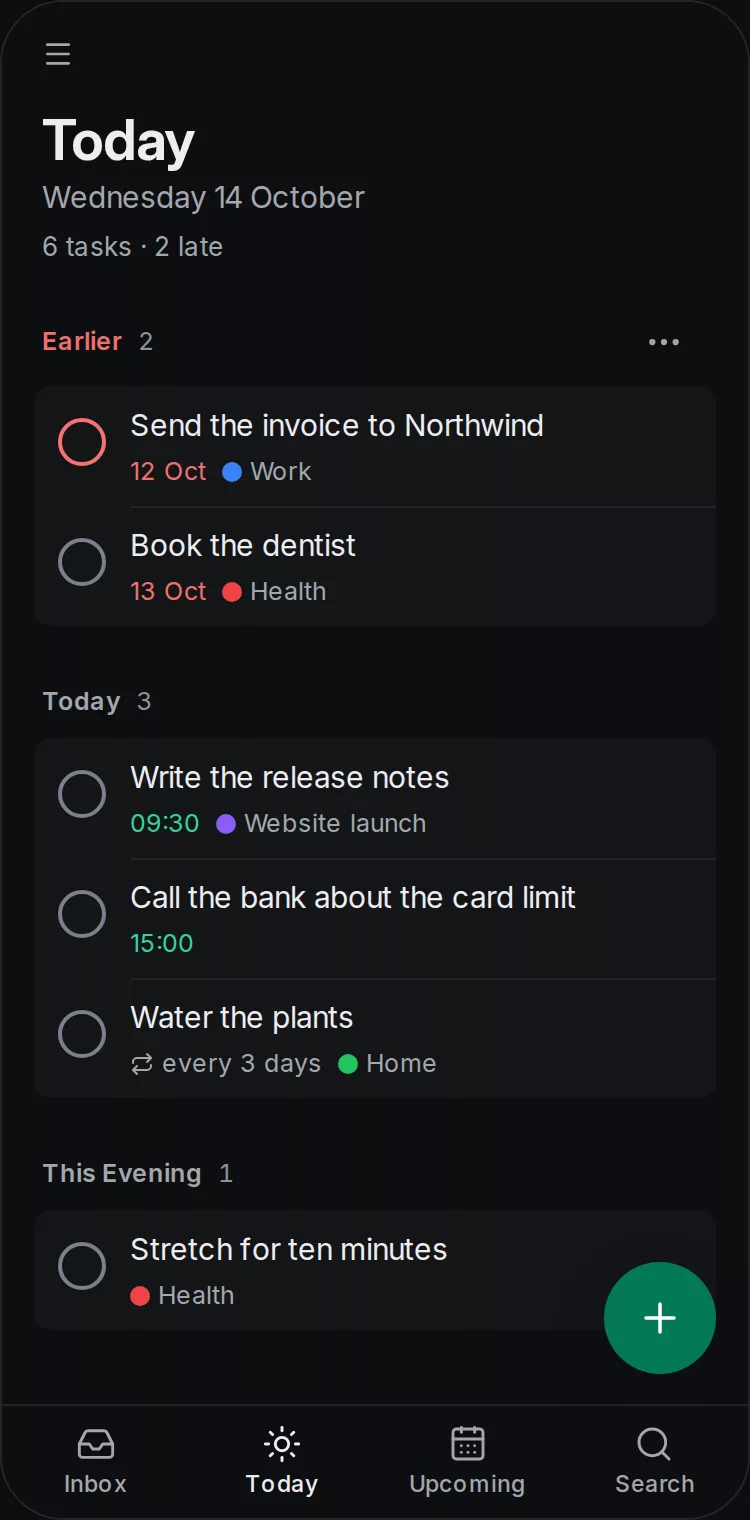
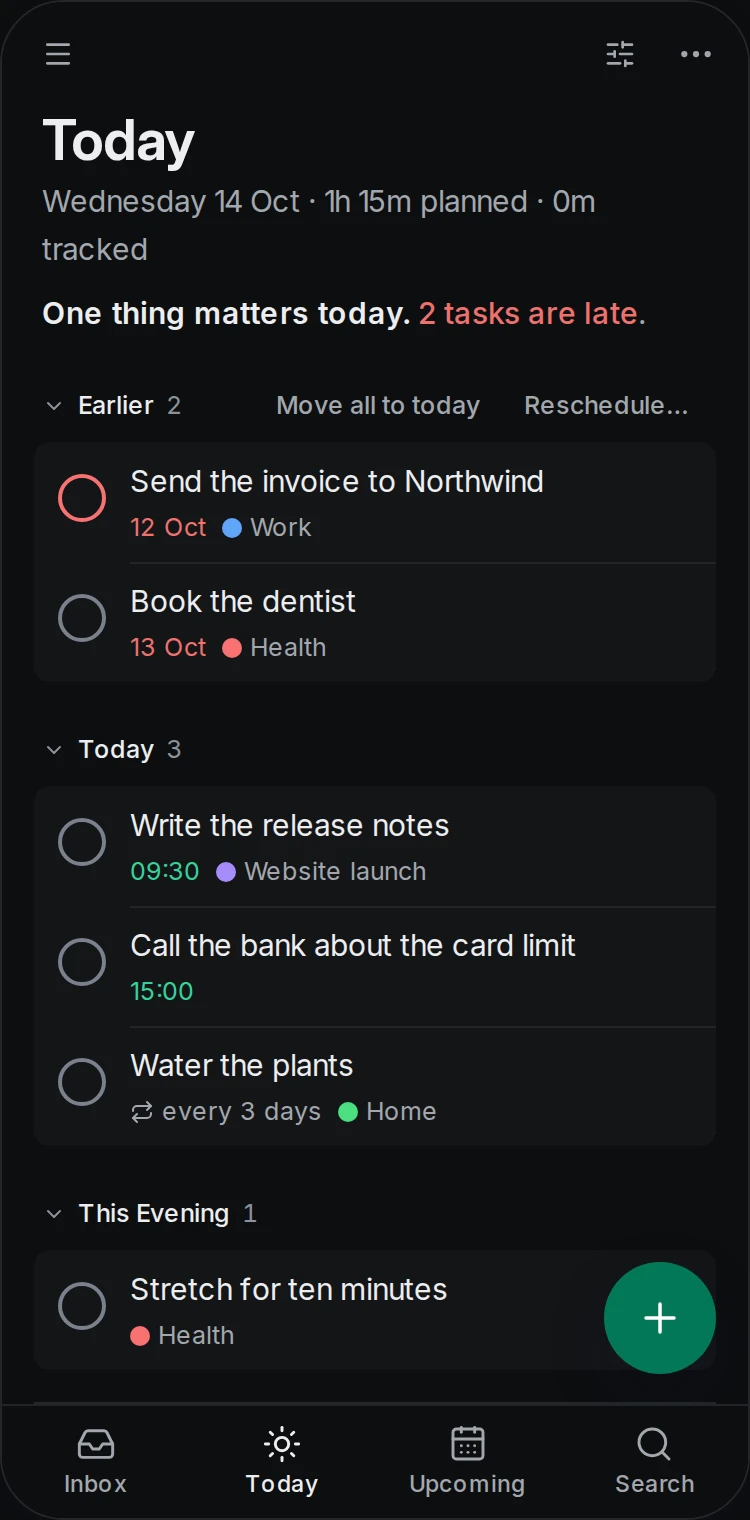
Phone lists: the guide, the changelog entry, the menu comparison test
The guide covers every list; its screenshot is the list screen. A test
compares the phone list's page menu with the present phone menu item by item
for five lists.

Claude-Session: https://claude.ai/code/session_0187cnkUznk8omJqBk45JtjP

Changed region(s): [[0.0613, 0.1237, 0.8893, 0.8967], [0.736, 0.1237, 0.7973, 0.1546]]

diff --git a/web/src/phone/phoneLists.test.tsx b/web/src/phone/phoneLists.test.tsx
@@ -241,3 +241,35 @@ describe('the row\'s menu in the phone list', () => {
     await r.unmount()
   })
 })
+
+describe('the page menu of the phone list', () => {
+  const items = () => [...document.querySelectorAll<HTMLElement>('[role="menuitem"], [role="menuitemcheckbox"], [role="menuitemradio"]')].map((el) => el.textContent?.trim() ?? '').filter(Boolean).sort()
+  /** Opens the last menu of a bar (the page's own menu) and returns its items; closes it again. */
+  async function menuOf(bar: () => Element | null | undefined): Promise<string[]> {
+    await waitFor(() => !!bar()?.querySelector('button[aria-haspopup]'), 'the page menu button')
+    const triggers = [...bar()!.querySelectorAll<HTMLElement>('button[aria-haspopup="menu"], button[aria-haspopup="true"]')]
+    await click(triggers.at(-1)!)
+    await waitFor(() => items().length > 0, 'the menu open')
+    const found = items()
+    document.dispatchEvent(new KeyboardEvent('keydown', { key: 'Escape', bubbles: true }))
+    document.activeElement?.dispatchEvent(new KeyboardEvent('keydown', { key: 'Escape', bubbles: true }))
+    await waitFor(() => items().length === 0, 'the menu closed')
+    return found
+  }
+
+  for (const [name, route] of ROUTES.filter(([n]) => ['the Inbox', 'Today', 'Upcoming', 'a label', 'a project'].includes(n))) {
+    it(`${name} offers every item its present phone menu offers`, async () => {
+      const s = await seed()
+      navigate(route(s))
+      const r = await render(<Shell user={user} onLogout={() => {}} />)
+      await waitFor(() => !!document.querySelector('[data-list-page]') && rowIds().length > 0, 'the present list')
+      const before = await menuOf(() => document.querySelector('[data-phone-bar]'))
+      setPhoneUiEnabled(true)
+      await waitFor(() => !!list() && rowIds().length > 0, 'the phone list')
+      const after = await menuOf(() => list()?.querySelector('[data-phone-header]'))
+      expect(before.length).toBeGreaterThan(0)
+      expect(after).toEqual(before)
+      await r.unmount()
+    })
+  }
+})

diff --git a/docs/phone-screens.md b/docs/phone-screens.md
@@ -1,6 +1,6 @@
 ---
 title: New phone screens
-summary: Try Today and the task page in a design made for a phone, on the phone you choose, and turn it off again.
+summary: Try the task lists and the task page in a design made for a phone, on the phone you choose, and turn it off again.
 audience: user
 section: Guides
 specs: []
@@ -9,39 +9,39 @@ order: 153
 ---
 # New phone screens
 
-<picture><source srcset="images/phone-screens-dark.webp" media="(prefers-color-scheme: dark)"><img src="images/phone-screens-light.webp" alt="Today on a phone in the new design: the title Today with the date, then two cards of tasks, Earlier with two overdue tasks and Today with three, each task with its circle, its title and one line with its time, repeat and project; the tab bar and the add button below."></picture>
+<picture><source srcset="images/phone-screens-dark.webp" media="(prefers-color-scheme: dark)"><img src="images/phone-screens-light.webp" alt="Today on a phone in the new design: the menu button, the display options and the menu in the bar, the title Today with the date and the briefing, then cards of tasks under Earlier, Today and This Evening, each task with its circle, its title and one line with its date or time, repeat and project; the tab bar and the add button at the bottom."></picture>
 
-OpenTodo on a phone has so far been the same screens as on a computer, rearranged to fit. **New phone screens** is a trial of screens designed for a phone from the start. It covers two of them, **Today** and the **task page**; every other screen is as before.
+OpenTodo on a phone has so far been the same screens as on a computer, rearranged to fit. **New phone screens** is a trial of screens designed for a phone from the start. It covers every **task list** (the Inbox, Today, Upcoming, Anytime, Someday, Assigned to me, Completed, a label, a location and a project as a list) and the **task page**; every other screen is as before, and so is a project shown as a board, timeline or calendar.
 
 ## Turn it on
 
 On your phone, open **Settings → Appearance → Theme and density** and turn on **New phone screens** at the end of the page. The switch is only shown on a screen narrower than 768 px. It takes effect at once, and turning it off brings the earlier screens back.
 
-The choice is kept on that phone. It is not synced: your other devices, and a tablet or a computer, are not affected, and nothing is sent to the server. It works in the Android and iPhone apps and in a phone's browser alike.
+The choice is kept on that phone and is not synced: your other devices are not affected. It works in the Android and iPhone apps and in a phone's browser.
 
-## Today
+## The task lists
 
-- Each group is one card of tasks. Under a task's title, one line holds what matters: its time or date, its subtasks, its repeat and its project.
-- Tap a task to open it. Tap its circle to complete it; **Undo** is offered as before. Swipe right to complete, swipe left to choose a date.
-- Calendar events for today are a card at the top, when you show them in Today.
-- To add a task, use the add button. The page has no add field of its own.
-- The overdue group's **Move all to today** and **Reschedule** are in the menu at the end of its name.
-- **Done today**, at the end, opens the tasks you completed.
+Every list shows the same tasks, groups and order as before, and does the same things.
 
-The list is the same one Today shows on a computer: the same tasks, groups, order and [Today limit](today-limit.md). Reordering by dragging is not part of this trial.
+- **Rows.** Each group is one card. Under a task's title, one line holds its time or date, subtasks, repeat and project. Subtasks sit under their task; the arrow at its end folds them.
+- **Tap, swipe, hold.** Tap a task to open it and its circle to complete it; **Undo** is offered as before. Swipe right to complete, left to choose a date. Hold a task and lift your finger for its menu; hold and move to put it somewhere else in a list you order by hand.
+- **The menu.** The bar's menu holds display options, filters, **Select tasks** and the list's own items, such as Today's limit and a project's layout.
+- **Selecting.** **Select tasks** turns the circles into tick boxes. The bar at the bottom acts on the ticked tasks; **Close** ends the selection.
+- **Adding.** The add button adds to the list on screen; a list has no add field of its own. A task's menu has **Add task below** and **Add subtask**.
+- **Each list's own parts** stay: Today's briefing and **Close the day**, the Inbox's **Process**, Upcoming's events, Completed's search.
 
 ## The task page
 
 - The title and the note come first.
 - What the task has is a list of rows: its date, project, priority, labels and so on. Tap a row to change it.
-- What the task does not have yet is a row of buttons under them, one each: **Deadline**, **Reminder**, **Repeat**, **Estimate** and the rest. Nothing is behind a "more" control.
+- What the task does not have yet is a row of buttons under them: **Deadline**, **Reminder**, **Repeat** and the rest.
 - Subtasks, custom fields, attachments, comments, activity, time and history follow, as before.
 - The bar has **Back** with the name of the list you came from, the next and previous task, and the task's menu.
 
 ### Choosing a date
 
-The **Do** row opens a sheet made for a phone: **Today**, **Tomorrow**, **This weekend** and **Next week** with the date each one means, then a month with days large enough for a thumb, then the time of day. A tap on a choice or a day sets the date and closes the sheet; a task keeps its time. **Clear** removes the date. The same sheet opens when you swipe a task to the left in Today, where it also offers **Someday**.
+The **Do** row opens a sheet made for a phone: **Today**, **Tomorrow**, **This weekend** and **Next week** with the date each one means, then a month with days large enough for a thumb, then the time of day. A tap on a choice or a day sets the date and closes the sheet; a task keeps its time. **Clear** removes the date. The same sheet opens when you swipe a task to the left in a list, where it also offers **Someday**.
 
 ## What this is for
 
-It is a trial, to find out whether screens made for a phone feel like an app. If they do, the other screens follow and the switch will be on by default; if they do not, it will be removed. Tell us what you notice with **Feedback and problems** in the menu.
+It is a trial, to find out whether screens made for a phone feel like an app. The other screens follow one by one. Tell us what you notice with **Feedback and problems** in the menu.

diff --git a/openspec/changes/phone-lists/tasks.md b/openspec/changes/phone-lists/tasks.md
@@ -3,7 +3,7 @@
 ## 1. One wiring for both screens
 
 - [x] 1.1 Move the list's wiring from `TaskListView.tsx` into `web/src/app/task-list/useListScreen.ts` (design D1), with the helper hooks it uses, in a commit that changes nothing else. `TaskListView` draws from the hook. Verify: `npm test` in `web/` passes with no test edited; `npm run lint`; the layout check on the list screens (`ONLY=inbox,today,upcoming,project,label,completed,assigned`) prints `LAYOUT OK` with the switch off.
-- [ ] 1.2 Move `ListHeader` into `task-list/ListHeader.tsx` and its menu items into `useListMenu` (design D3). Verify: `listChrome.test.tsx` and `closedListToday.test.tsx` pass unchanged; a new test lists the item ids per route.
+- [x] 1.2 Move `ListHeader` into `task-list/ListHeader.tsx` and its menu items into `useListMenu` (design D3). Verify: `listChrome.test.tsx` and `closedListToday.test.tsx` pass unchanged; a new test lists the item ids per route. Done: the test is the per-list menu comparison in `phoneLists.test.tsx` (five lists).
 
 ## 2. The phone list
 
@@ -30,11 +30,11 @@
 
 ## 6. Docs
 
-- [ ] 6.1 `docs/phone-screens.md`: the lists, what the menu holds, selection, reordering. `changelog.d/Changed/phone-lists.md`. `ROADMAP.md` row, then the docs build. Verify: `npm run docs:build` and `docs:check` in `web/`; repo checks.
+- [x] 6.1 `docs/phone-screens.md`: the lists, what the menu holds, selection, reordering. `changelog.d/Changed/phone-lists.md`. `ROADMAP.md` row, then the docs build. Verify: `npm run docs:build` and `docs:check` in `web/`; repo checks.
 
 ## 7. Checks
 
-- [ ] 7.1 The web app. Verify: `npm test`, `npm run lint` and `npm run build` in `web/`; `node scripts/bundle-budget.mjs` inside the budget, numbers written in design D9; `node scripts/i18n-check.mjs`.
+- [x] 7.1 The web app. Verify: `npm test`, `npm run lint` and `npm run build` in `web/`; `node scripts/bundle-budget.mjs` inside the budget, numbers written in design D9; `node scripts/i18n-check.mjs`. Done: 935 test files pass, lint and knip clean, entry 93.3 of 148 KB and first load 662.1 of 712 KB, 7,893 messages complete.
 - [ ] 7.2 Performance. Verify: the list budgets of `docs/performance.md` on the 10,000-task account with the switch on (`scripts/perf/run.mjs`), numbers in the design.
 - [ ] 7.3 Layout and accessibility with the switch on: `layout-screens.mjs` marks every list screen as having a phone view; CI's "Layout check with the phone UI on" runs them. Verify: `PHONE_UI=1` layout check locally in Chromium at 360 and 390 px, light and dark, prints `LAYOUT OK`; the full CI run (`gh workflow run ci.yml -f base=main`) passes, WebKit included.
 - [ ] 7.4 The real app at 390 px with touch: a walk through every list (open, complete, undo, swipe, hold menu, drag, select, add, the menu). Verify: no console error, and screenshots of each list reviewed.

diff --git a/ROADMAP.md b/ROADMAP.md
@@ -328,6 +328,7 @@ The phone apps stay web-view shells and are made to feel like apps, in the order
 | [`reminder-card-compact`](openspec/changes/archive/2026-11-21-reminder-card-compact/) | The in-app reminder as one compact card on touch: Snooze and Dismiss on one row | [#1381](https://github.com/OpenTodoApp/OpenTodo/issues/1381) |
 | [`phone-fab-scroll-room`](openspec/changes/archive/2026-11-21-phone-fab-scroll-room/) | The calendar's Day and Week reach the tab bar; no empty room under pages without the add button | [#1382](https://github.com/OpenTodoApp/OpenTodo/issues/1382) |
 | [`phone-ui-trial`](openspec/changes/phone-ui-trial/) | A trial of screens made only for a phone, behind a switch on the device: Today and the task page, a date sheet, and a place and rules for the phone screens that follow | |
+| [`phone-lists`](openspec/changes/phone-lists/) | Every task list in the phone screens, with all a list does: its menu, selection, reordering, subtasks and each list's own parts | |
 | [`shell-push`](openspec/changes/archive/2026-11-21-shell-push/) | Reminders by push to the Android app through UnifiedPush, with no Google service and no new server feature; the iPhone stays on its background refresh | [#1344](https://github.com/OpenTodoApp/OpenTodo/issues/1344) |
 
 ## Future ideas

diff --git a/docs/roadmap.md b/docs/roadmap.md
@@ -279,6 +279,7 @@ Why each milestone exists, and the order inside it, is in [ROADMAP.md](../ROADMA
 | `reminder-card-compact` | The in-app reminder as one compact card on touch: Snooze and Dismiss on one row | Shipped in 1.6 |
 | `phone-fab-scroll-room` | The calendar's Day and Week reach the tab bar; no empty room under pages without the add button | Shipped in 1.6 |
 | `phone-ui-trial` | A trial of screens made only for a phone, behind a switch on the device: Today and the task page, a date sheet, and a place and rules for the phone screens that follow | In progress (20 of 23) |
+| `phone-lists` | Every task list in the phone screens, with all a list does: its menu, selection, reordering, subtasks and each list's own parts | In progress (4 of 19) |
 | `shell-push` | Reminders by push to the Android app through UnifiedPush, with no Google service and no new server feature; the iPhone stays on its background refresh | Shipped in 1.5 |
 
 <!-- roadmap:end -->

diff --git a/openspec/changes/phone-lists/design.md b/openspec/changes/phone-lists/design.md
@@ -101,7 +101,7 @@ The desktop list's add row is not sticky below 768 px and scrolls away; the add 
 
 ### D9. Size
 
-Reported after the build in `tasks.md` 7.1: the entry chunk and the first load against `web/bundle-budget.json` (today 100.6 and 660.0 of 148 and 712 KB), and the phone list chunk. Moving the wiring into a module of its own does not add code to the first load: `TaskListView` already loads it.
+Measured on this branch against `web/bundle-budget.json`: the entry chunk is 93.3 KB gzip (budget 148; 100.6 before this change) and the entry with its static imports 662.1 KB (budget 712; 660.0 before). The phone list is one chunk of 5.6 KB gzip, fetched only with the switch on. The entry shrank because the list's wiring and header now sit in modules of their own, which the bundler places in shared chunks; the first load as a whole grew by 2.1 KB.
 
 ## Risks / Trade-offs
 

diff --git a/changelog.d/Changed/phone-lists.md b/changelog.d/Changed/phone-lists.md
@@ -1,0 +1,1 @@
+- **New phone screens: every task list.** With the trial switch on, the Inbox, Today, Upcoming, Anytime, Someday, Assigned to me, Completed, a label, a location and a project as a list all open in the phone design, with everything the list does: its menu, display options and filters, selecting tasks, reordering by a hold and a move, subtasks under their task, and each list's own parts ([New phone screens](docs/phone-screens.md)).
